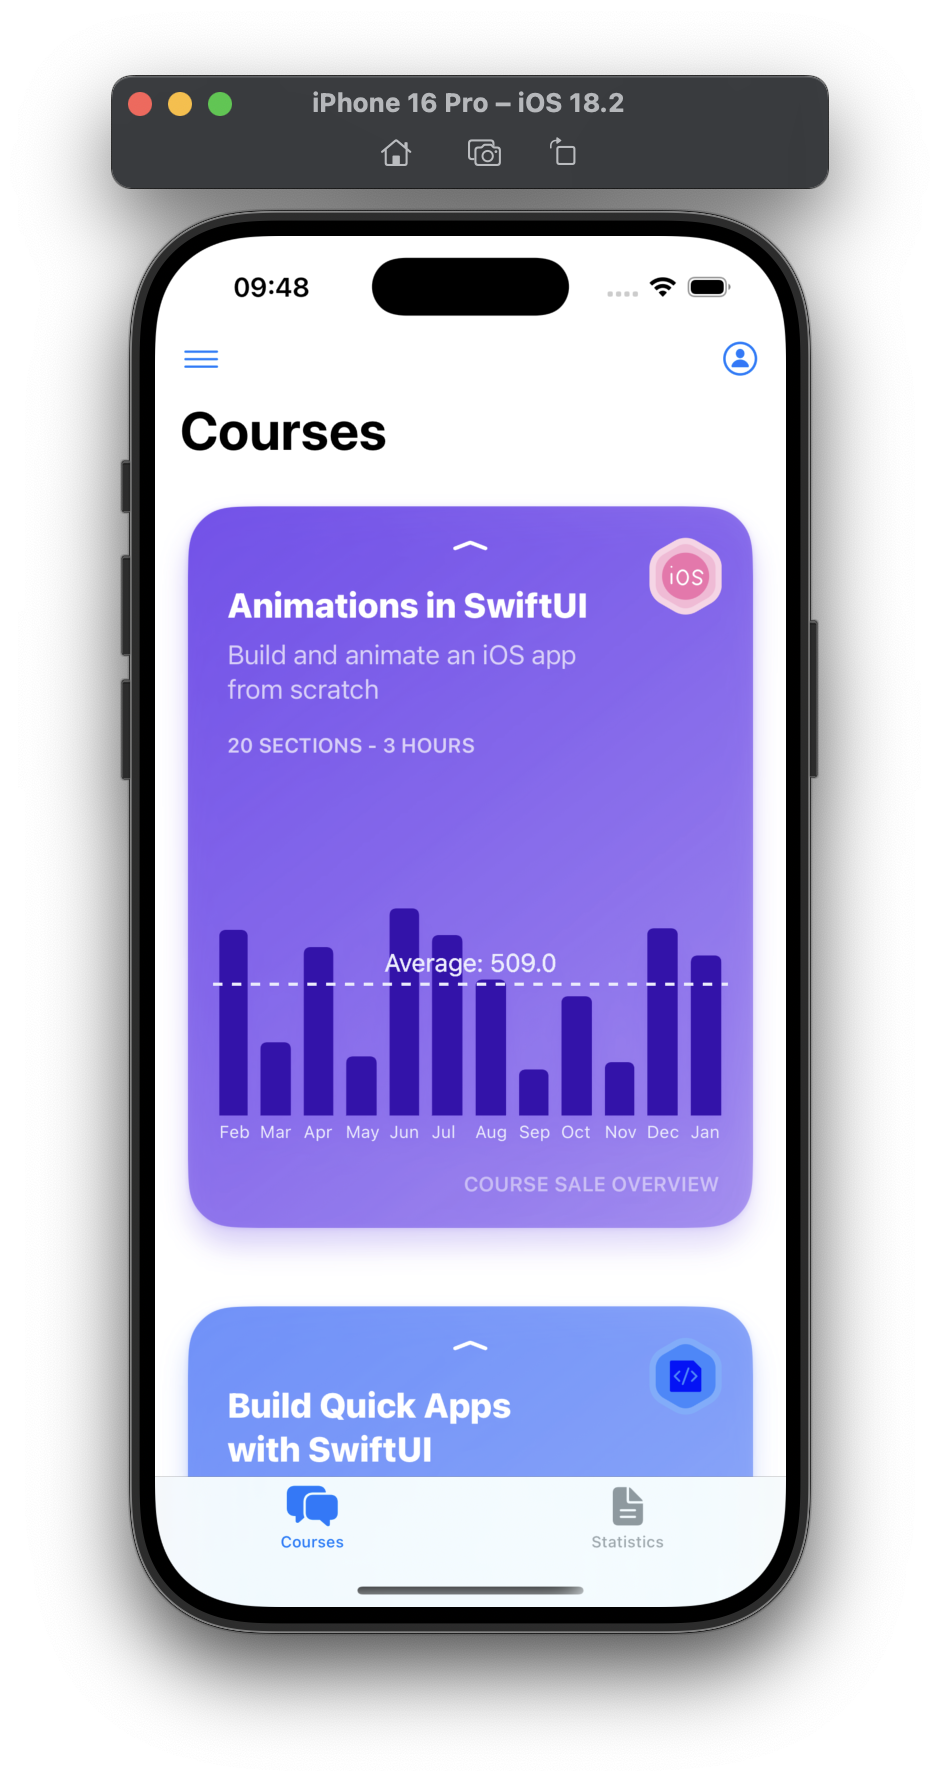
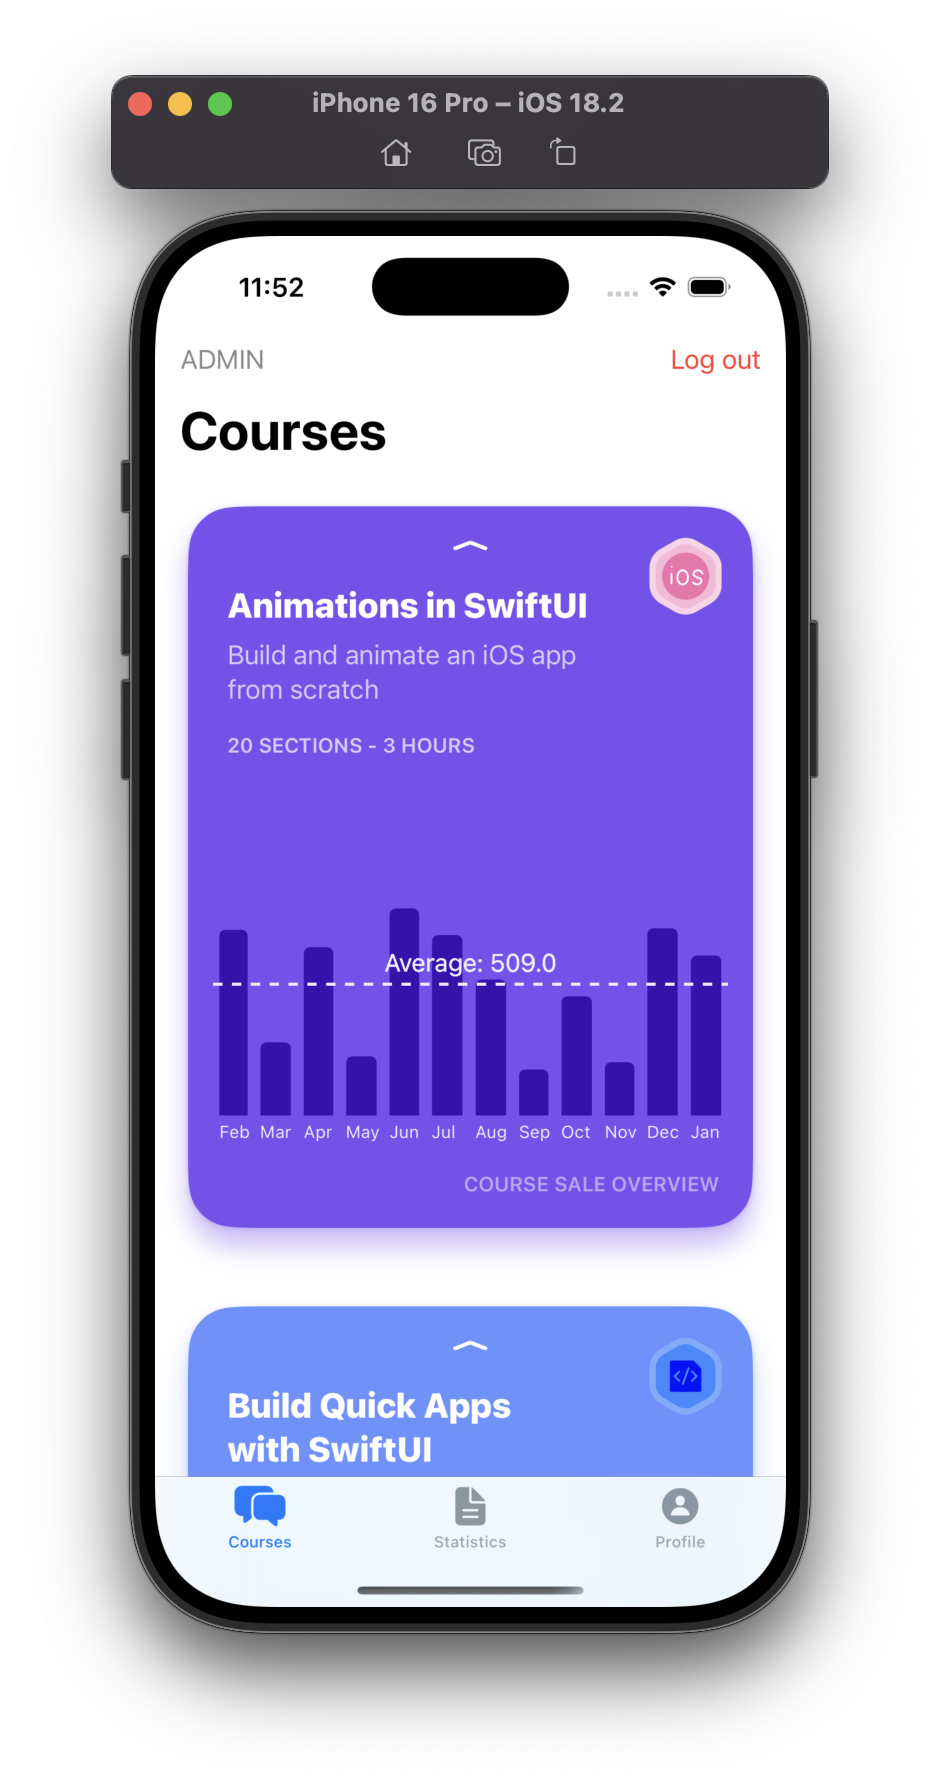
Minor fixes and modified screenshots

diff --git a/DiplomskiRadBezAnimacija/ContentView.swift b/DiplomskiRadBezAnimacija/ContentView.swift
@@ -2308,6 +2308,11 @@ struct TabThreeView: View {
                 }
                 
                 
+            }.toolbar {
+                ToolbarItem(placement: .navigationBarLeading) {
+                    Text("ADMIN")
+                        .foregroundColor(.secondary)
+                }
             }
             
             
@@ -2320,7 +2325,7 @@ struct TabThreeView: View {
     
     func formattedDate(from date: Date) -> String {
             let formatter = DateFormatter()
-            formatter.dateFormat = "d. MMMM yyyy 'at' HH:mm:ss"
+            formatter.dateFormat = "d. MMMM yyyy 'at' HH:mm"
             formatter.locale = Locale(identifier: "en_US")
             return formatter.string(from: date)
         }

diff --git a/README.md b/README.md
@@ -2,6 +2,8 @@
 Github repository for project that represents my final thesis at the Faculty of Software Engineering in Zenica in the subject Computer Graphics, on the topic "Creating a mobile application for visualizing statistical data"
 ### App preview
 
+<img src="Screenshots/Login.png" alt="Login" width="40%" height="40%"> 
+
 <img src="Screenshots/Tab1.png" alt="Tab1" width="40%" height="40%"> 
 
 <img src="Screenshots/Tab1-Details.png" alt="Tab1-Details" width="40%" height="40%">
@@ -19,5 +21,7 @@ Github repository for project that represents my final thesis at the Faculty of 
 <img src="Screenshots/Tab2-Details-2.png" alt="Tab2-Details-2" width="40%" height="40%">
 
 <img src="Screenshots/Tab2-Details-3.png" alt="Tab2-Details-3" width="40%" height="40%">
+
+<img src="Screenshots/Tab3.png" alt="Tab3" width="40%" height="40%"> 
 
 **NOTE**: Be aware that the screenshots are only a partial representation of the application. The project is still in the development phase.
